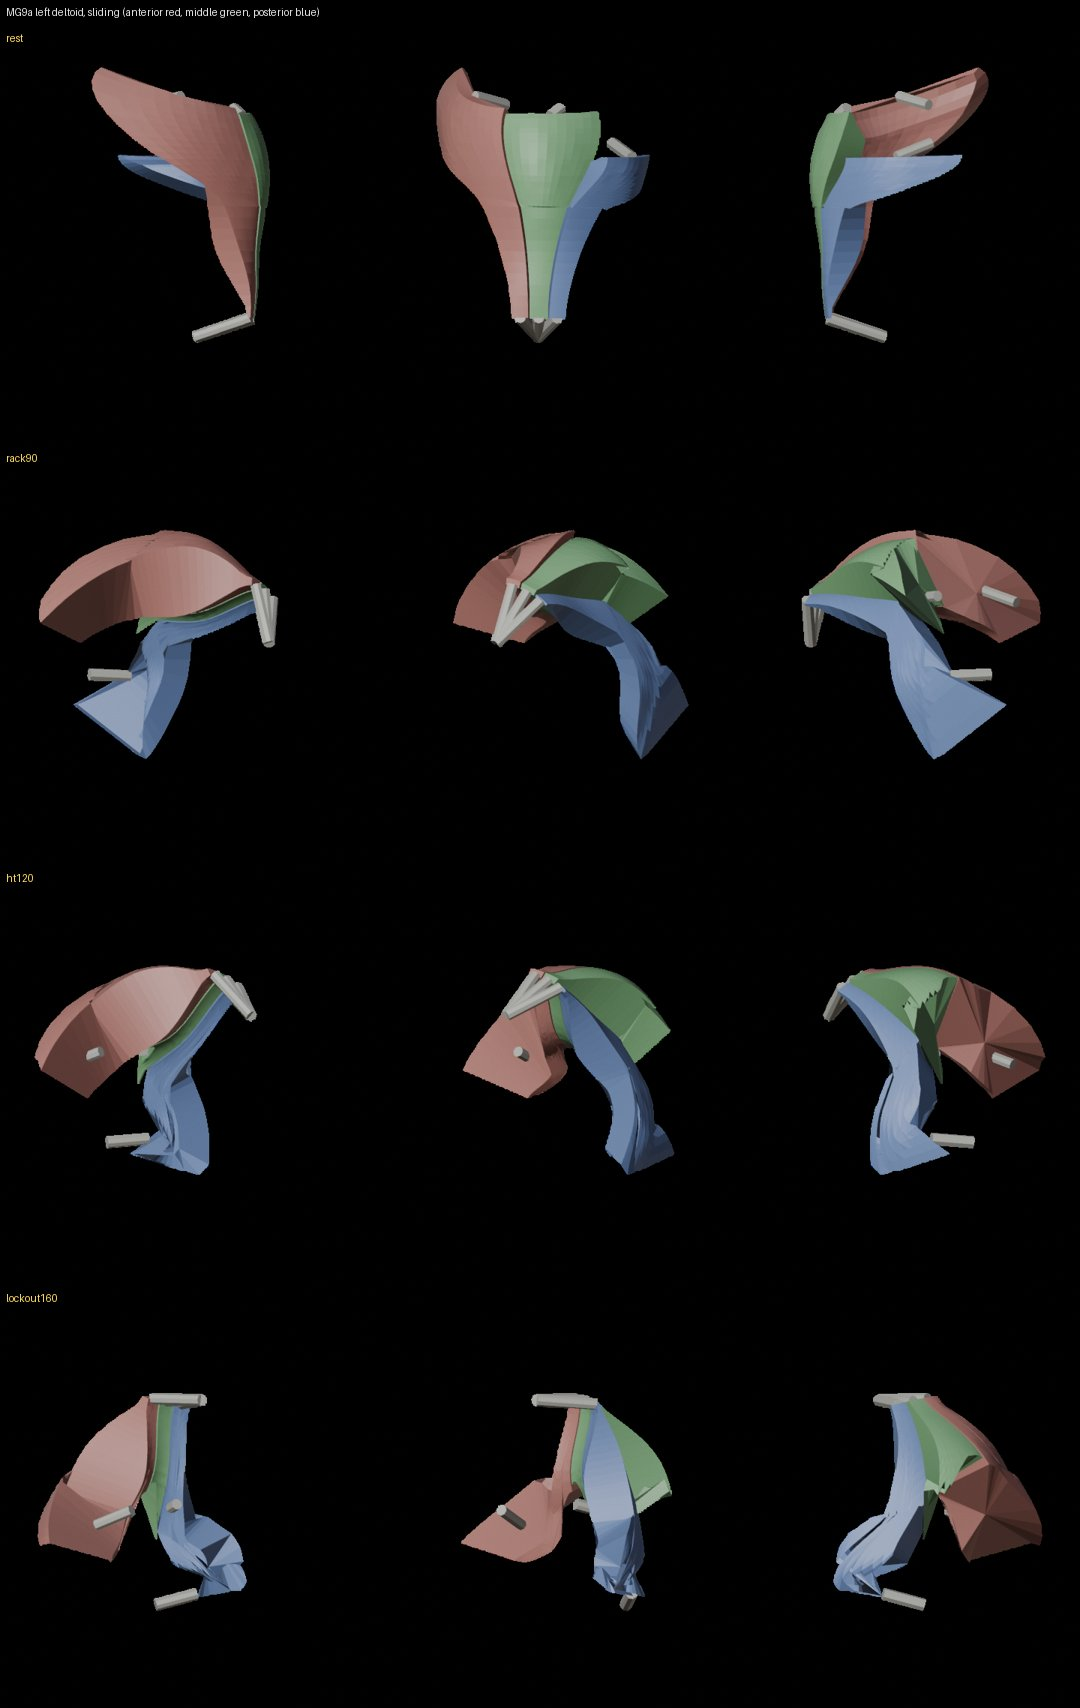
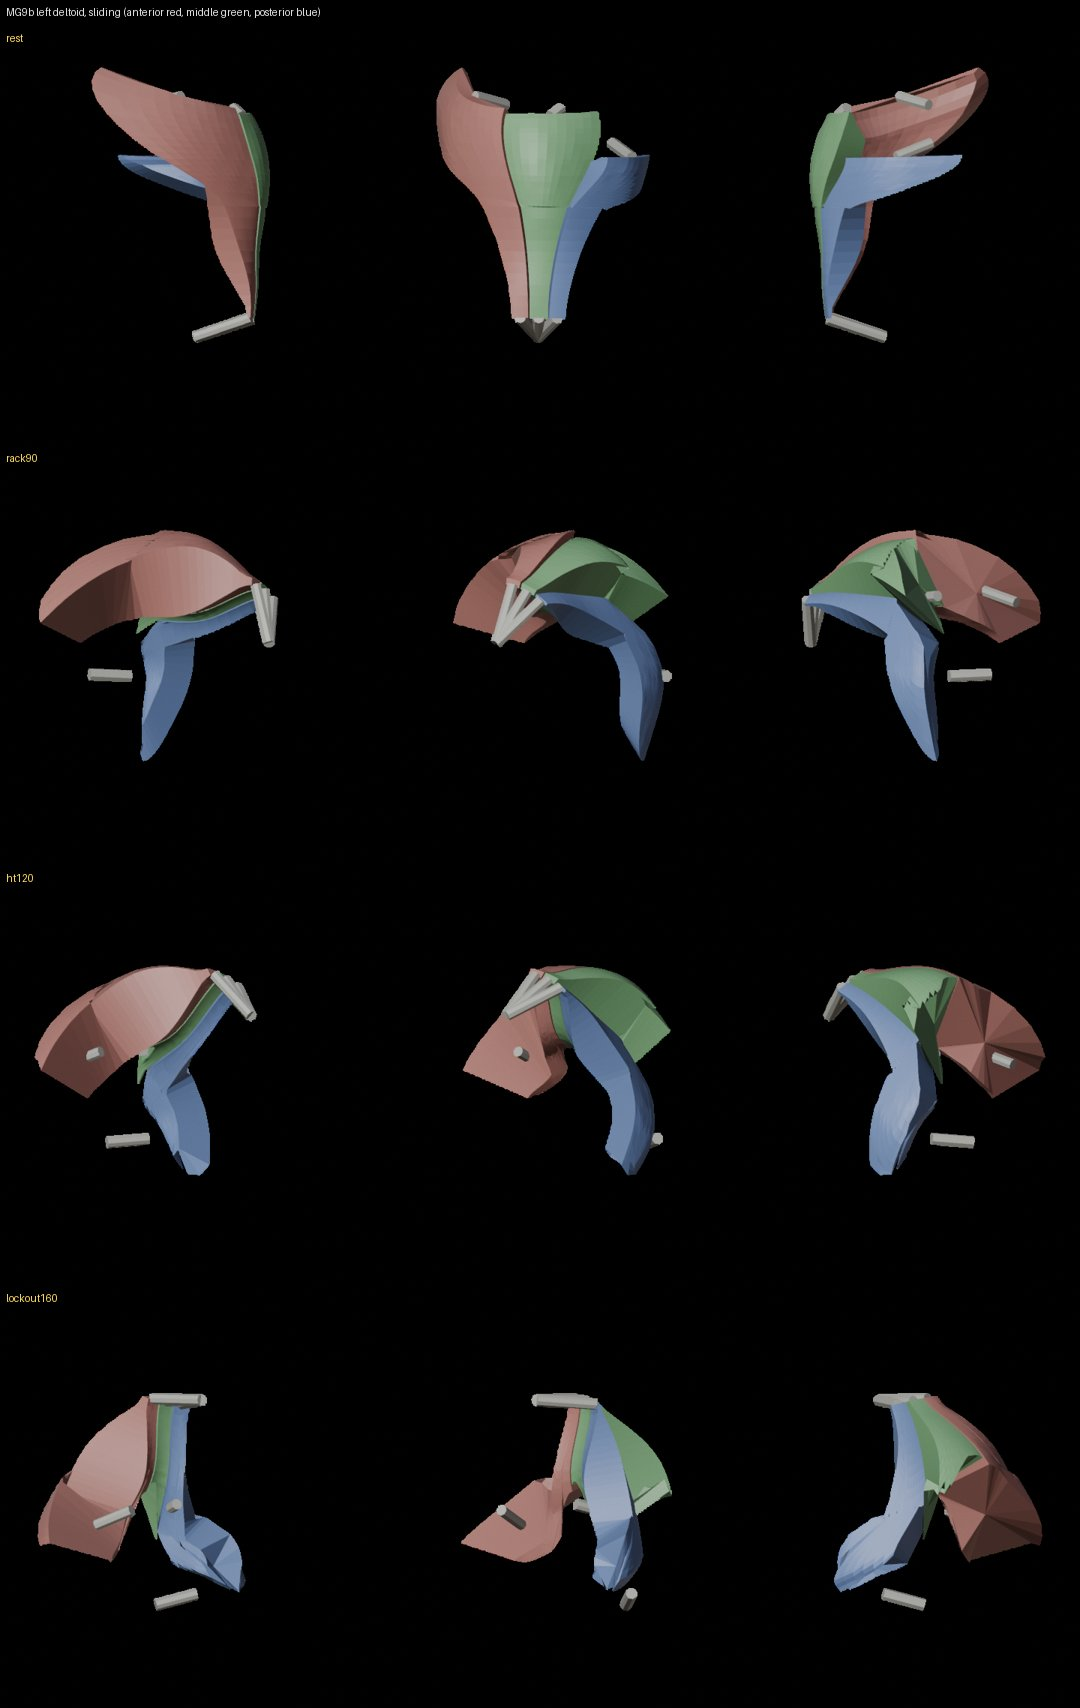
MG9b: a lengthening deltoid fibre keeps its rest length (origin tendon spans the gap)
The straight extension crumpled the posterior head above 120 deg (about 160 self-
crossing pairs); without it, 16 / 22 at 120 / lockout, volume 0.99, overlaps
unchanged (left 221 / 161 / 94 at rack / 120 / lockout). Extension kept as
MG9_SLIDE_EXTEND=1. Reports and sheets regenerated, both sides.

Claude-Session: https://claude.ai/code/session_01EPKohHG29Xe8qKuNMT5Fv9

diff --git a/experiments/anatomical_muscles/muscle_fibre_sweep_press_blender.py b/experiments/anatomical_muscles/muscle_fibre_sweep_press_blender.py
@@ -131,6 +131,9 @@ THICK = _ENV.get("MG9_THICK", "grid")                       # thickness along th
 TAUT_DEG = float(_ENV.get("MG9_TAUT_DEG", "30"))            # along-fibre rest shape gone after this much joint rotation
 ONE_DELTOID = _ENV.get("MG9_ONE_DELTOID", "1") == "1"       # the three deltoid heads solved as one 36-fibre sheet
 DELTOID_MODE = _ENV.get("MG9_DELTOID", "slide")             # slide (below) or poisson (the fans' solve)
+EXTEND = _ENV.get("MG9_SLIDE_EXTEND", "0") == "1"           # a lengthening deltoid fibre extends straight to its origin
+                                                            # (off: it keeps its rest length; the origin tendon spans the
+                                                            # gap - the extension crumpled the posterior head above 120)
 KIND = {"deltoid_anterior": "deltoid", "deltoid_middle": "deltoid", "deltoid_posterior": "deltoid",
         "latissimus_dorsi": "fan", "teres_major": "fan", "pectoralis_major_clavicular": "fan",
         "pectoralis_major_sternocostal": "fan"}
@@ -414,8 +417,9 @@ def _interp_arc(G, arc, a):
 def solve_slide(sh, Tm):
     """the deltoid SLIDES along its own rest shape: in the humerus' frame the posed origin of each fibre moves down
     roughly along the rest fibre as the arm rises (theta from about 150 deg at rest to about 40 at the lockout), so the
-    posed fibre is the rest fibre's portion from the insertion to the point nearest the posed origin (extended
-    straight to it when it lies beyond the rest origin), its stations at their rest arc fractions, the deep surface
+    posed fibre is the rest fibre's portion from the insertion to the point nearest the posed origin (the whole rest
+    fibre when the origin lies beyond its rest position - the origin tendon spans the gap; MG9_SLIDE_EXTEND=1 extends
+    it straight instead), its stations at their rest arc fractions, the deep surface
     where the rest deep surface is, the outer surface swollen by a per-head factor that keeps the head's volume.  The
     posed deltoid is a subset of its rest shape carried by the humerus and thickened outward: it cannot fold, turn
     inside out, enter the MG1 envelopes (rigid with the humerus) or move one head onto another"""
@@ -436,7 +440,7 @@ def solve_slide(sh, Tm):
         ds, a_star, kk, tt = best
         d_end = M[i, -1] - M[i, -2]                          # beyond the rest origin (the fibre lengthens): on straight
         beyond = kk == K - 2 and float((oh - M[i, -2]) @ d_end) > float(d_end @ d_end)   # to it from the rest origin;
-        if not beyond:                                       # otherwise truncated where it is nearest (its sideways
+        if not beyond or not EXTEND:                         # otherwise truncated where it is nearest (its sideways
             ds = 0.0                                         # offset is the origin tendon's)
         p_star = _interp_arc(M[i], arc, np.array([a_star]))[0]
         Lc = a_star + ds; lam[i] = Lc / A

diff --git a/experiments/anatomical_muscles/CLAUDE_NATIVE_PASS_20261024.md b/experiments/anatomical_muscles/CLAUDE_NATIVE_PASS_20261024.md
@@ -1258,8 +1258,10 @@ rest fibre itself (`solve_slide`; `MG9_DELTOID=poisson` restores MG9a's solve):
 
 - **Shortening:** the rest fibre from the insertion to its point nearest the posed origin. The sideways offset is left
   to the origin tendon.
-- **Lengthening** (the posed origin lies beyond the rest origin): the rest fibre, then straight on to the origin. The end
-  section turns from the fibre's tangent onto the extension, the turn fading in over its first 10 mm.
+- **Lengthening** (the posed origin lies beyond the rest origin): the whole rest fibre. The origin tendon spans the
+  gap; in this press the posterior head lengthens 5–15 %.
+  - `MG9_SLIDE_EXTEND=1` instead runs straight on to the origin, the end section turning onto the extension. That
+    crumpled the posterior head above 120°: about 160 self-crossing pairs, against 16–22 without it.
 - **Stations** sit at their rest arc fractions.
 - **Thickness:** the deep surface stays where the rest deep surface is. The outer surface swells by a per-head factor
   that keeps the head's volume, limited to 2.5×.
@@ -1272,10 +1274,10 @@ the humerus too), or move one head onto another. At rest it is exact (0.0001 mm)
 
 | | Rack 90° | 120° | Lockout 160° |
 |---|---|---|---|
-| Face overlaps, all shoulder muscles + MG1 (MG9a's Poisson deltoid) | **217** (257) | **159** (518) | **93** (1638) |
-| Overlaps involving the deltoid | 76 | 8 | 8 |
-| Deltoid volume, anterior / middle / posterior | 1.11 / 1.04 / 1.02 | 0.87 / 0.87 / 0.99 | 0.77 / 0.59 / 0.99 |
-| Deltoid self-crossing pairs, anterior / middle / posterior | 34 / 89 / 0 | 14 / 47 / 158 | 38 / 32 / 169 |
+| Face overlaps, all shoulder muscles + MG1 (MG9a's Poisson deltoid) | **221** (257) | **161** (518) | **94** (1638) |
+| Overlaps involving the deltoid | 80 | 13 | 9 |
+| Deltoid volume, anterior / middle / posterior | 1.11 / 1.04 / 1.00 | 0.87 / 0.87 / 0.99 | 0.77 / 0.59 / 0.99 |
+| Deltoid self-crossing pairs, anterior / middle / posterior | 34 / 89 / 36 | 14 / 47 / 16 | 38 / 32 / 22 |
 
 **Reading.**
 
@@ -1283,8 +1285,8 @@ the humerus too), or move one head onto another. At rest it is exact (0.0001 mm)
   touches anything.
 - **Volume is short above 120°** for the anterior and middle heads, because the 2.5× outer-thickness limit is reached:
   the rest shape near the insertion is thin.
-- **The posterior head** lengthens slightly in this press. Its straight extension still crumples at 120° and the
-  lockout (about 160 self-crossing pairs).
+- **The posterior head** lengthens slightly in this press. It keeps its rest length and stays clean through the
+  lockout.
 
 **Two variants were measured and not kept:**
 
